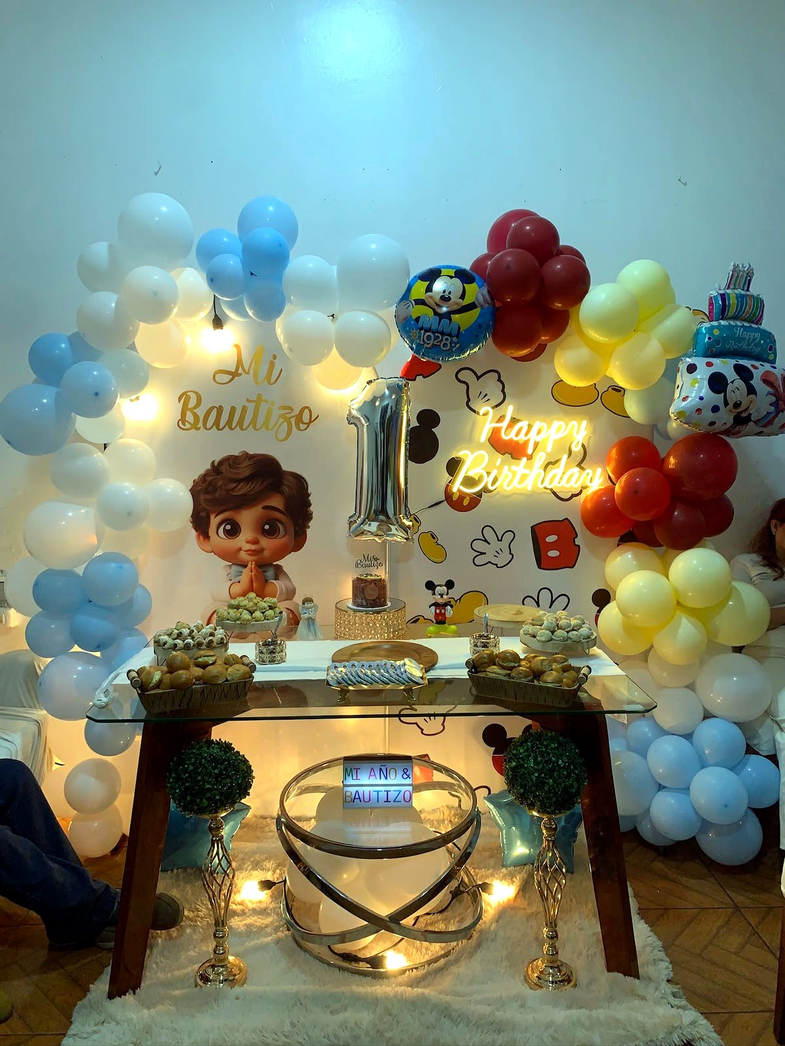
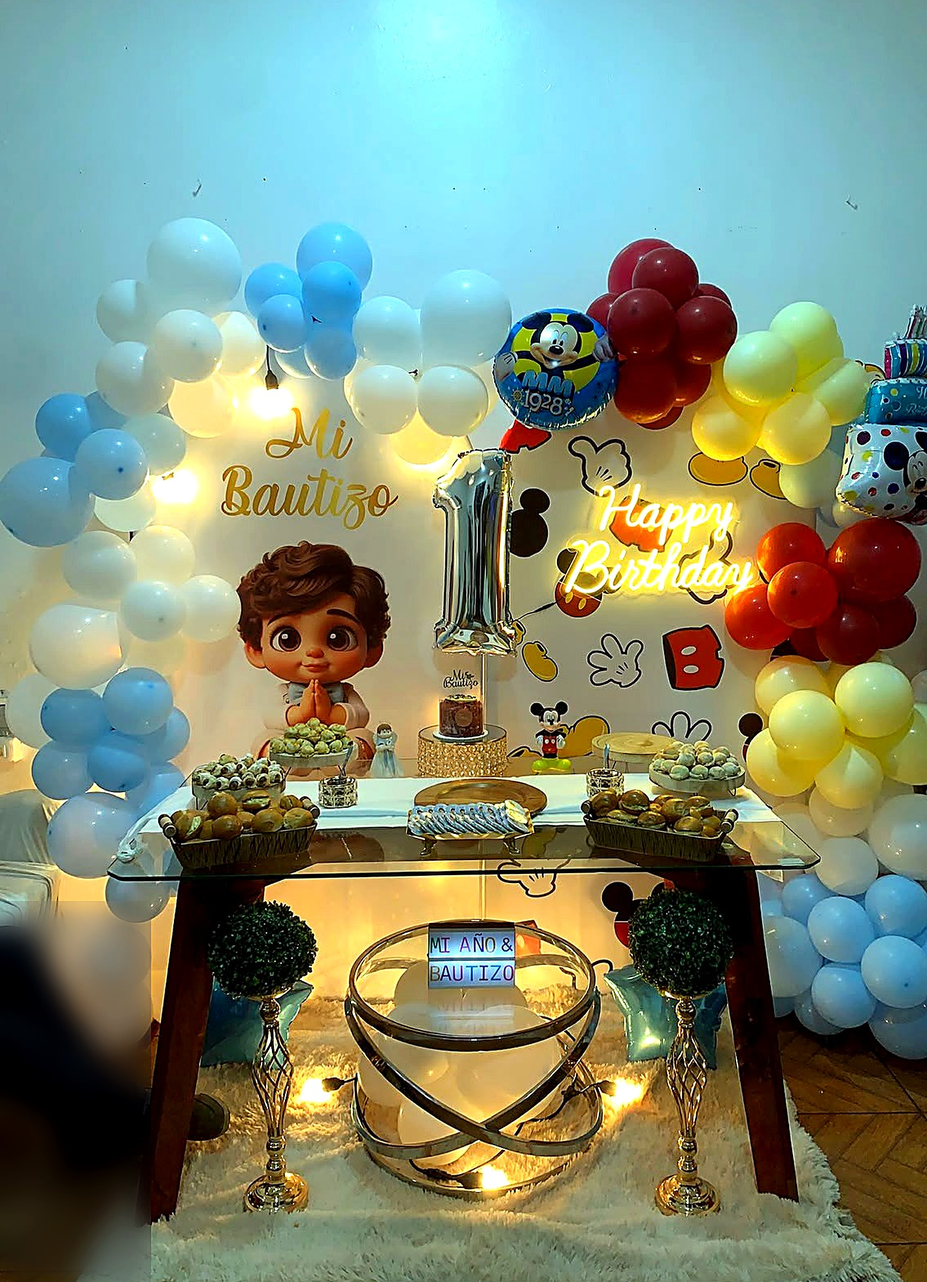
Galeria: deja solo las 5 fotos profesionales; bautizo completo con color mejorado
- El carrusel muestra unicamente las 5 fotos editadas (2 baby shower, 2 de 50
  años y el bautizo/primer añito).
- El bautizo se mantiene completo (sin recortar) pero con color/nitidez
  mejorados y sin personas en los bordes.

Claude-Session: https://claude.ai/code/session_01QcNCKsaXbd2PZ5iuZWoKNK

diff --git a/src/app/page.tsx b/src/app/page.tsx
@@ -91,31 +91,11 @@ const servicios = [
 ];
 
 const galeria: GalItem[] = [
-  { label: "Cumpleaños", src: "/sov/galeria/g1.jpg", full: "/sov/galeria/g1f.jpg" },
-  { label: "Baby Shower Safari", src: "/sov/galeria/g3.jpg", full: "/sov/galeria/g3f.jpg" },
-  { label: "50 Años", src: "/sov/galeria/g2.jpg", full: "/sov/galeria/g2f.jpg" },
-  { label: "Cumpleaños KPOP", src: "/sov/galeria/g9.jpg", full: "/sov/galeria/g9f.jpg" },
-  { label: "Bautizo", src: "/sov/galeria/g10.jpg", full: "/sov/galeria/g10f.jpg" },
   { label: "Baby Shower", src: "/sov/galeria/g5.jpg", full: "/sov/galeria/g5f.jpg" },
-  { label: "Cumpleaños Minecraft", src: "/sov/galeria/g18.jpg", full: "/sov/galeria/g18f.jpg" },
-  { label: "Cumpleaños Cocomelon", src: "/sov/galeria/g23.jpg", full: "/sov/galeria/g23f.jpg" },
-  { label: "Cumpleaños Elegante", src: "/sov/galeria/g4.jpg", full: "/sov/galeria/g4f.jpg" },
-  { label: "Mesa de Dulces", src: "/sov/galeria/g11.jpg", full: "/sov/galeria/g11f.jpg" },
-  { label: "70 Años", src: "/sov/galeria/g21.jpg", full: "/sov/galeria/g21f.jpg" },
-  { label: "Cumpleaños", src: "/sov/galeria/g14.jpg", full: "/sov/galeria/g14f.jpg" },
-  { label: "Torta de Graduación", src: "/sov/galeria/g12.jpg", full: "/sov/galeria/g12f.jpg" },
-  { label: "Promoción", src: "/sov/galeria/g17.jpg", full: "/sov/galeria/g17f.jpg" },
-  { label: "Cumpleaños Hot Wheels", src: "/sov/galeria/g6.jpg", full: "/sov/galeria/g6f.jpg" },
-  { label: "Los Increíbles", src: "/sov/galeria/g25.jpg", full: "/sov/galeria/g25f.jpg" },
-  { label: "Cumpleaños Jurassic", src: "/sov/galeria/g15.jpg", full: "/sov/galeria/g15f.jpg" },
-  { label: "Cumpleaños Dorado", src: "/sov/galeria/g19.jpg", full: "/sov/galeria/g19f.jpg" },
-  { label: "Torta de Cumpleaños", src: "/sov/galeria/g13.jpg", full: "/sov/galeria/g13f.jpg" },
-  { label: "Cumpleaños", src: "/sov/galeria/g16.jpg", full: "/sov/galeria/g16f.jpg" },
-  { label: "Cumpleaños", src: "/sov/galeria/g22.jpg", full: "/sov/galeria/g22f.jpg" },
-  { label: "Cumpleaños 14 Años", src: "/sov/galeria/g24.jpg", full: "/sov/galeria/g24f.jpg" },
-  { label: "Cumpleaños Fútbol", src: "/sov/galeria/g20.jpg", full: "/sov/galeria/g20f.jpg" },
-  { label: "Juegos Inflables", src: "/sov/galeria/g7.jpg", full: "/sov/galeria/g7f.jpg" },
-  { label: "Bodas de Oro", src: "/sov/galeria/g8.jpg", full: "/sov/galeria/g8f.jpg" },
+  { label: "50 Años", src: "/sov/galeria/g2.jpg", full: "/sov/galeria/g2f.jpg" },
+  { label: "Bautizo y Primer Añito", src: "/sov/galeria/g10.jpg", full: "/sov/galeria/g10f.jpg" },
+  { label: "50 y Fabulosa", src: "/sov/galeria/g4.jpg", full: "/sov/galeria/g4f.jpg" },
+  { label: "Baby Shower Safari", src: "/sov/galeria/g3.jpg", full: "/sov/galeria/g3f.jpg" },
 ];
 
 const pasos = [
